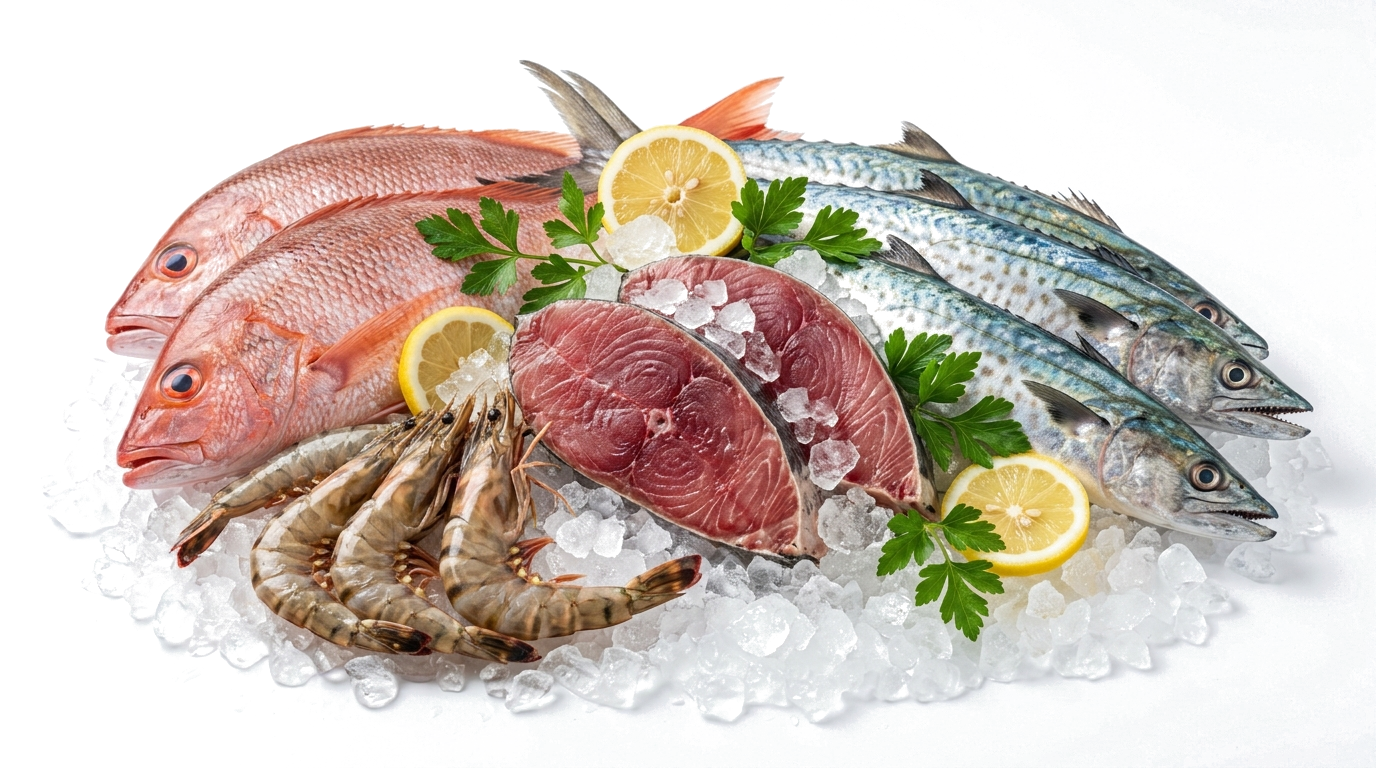
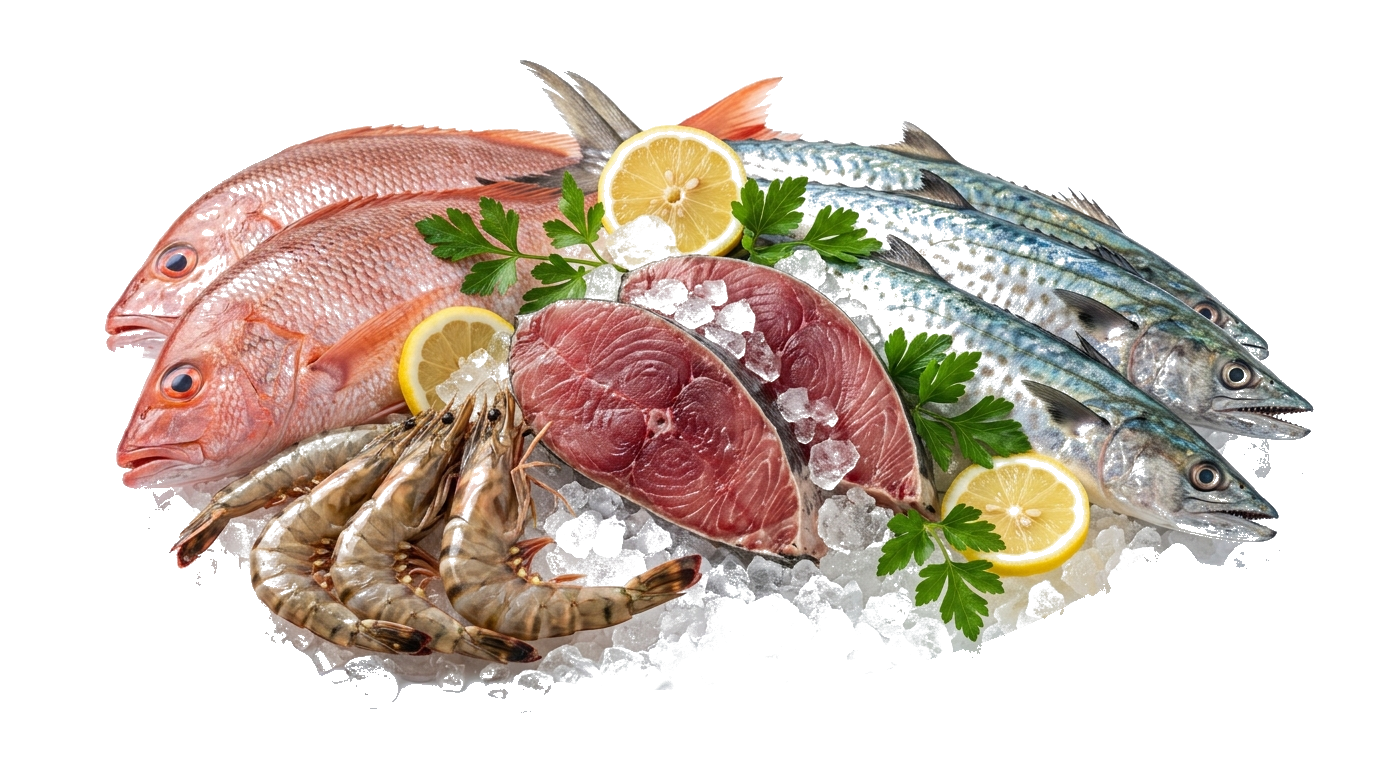
fix(ui): clean fish cutout background & add crisp glass card text container for ultra-readable header text

diff --git a/src/app/(site)/page.tsx b/src/app/(site)/page.tsx
@@ -251,55 +251,57 @@ export default function HomePage() {
             </div>
 
             {/* 5. Hero text content */}
-            <div className="relative z-20 h-full flex flex-col justify-center px-6 sm:px-8 max-w-lg">
-              {/* Small-caps label */}
-              <p className="text-[#1E88E5] text-[10px] sm:text-xs font-bold uppercase tracking-[0.18em] mb-2 sm:mb-3">
-                Premium Quality · Fresh &amp; Natural
-              </p>
+            <div className="relative z-20 h-full flex flex-col justify-center px-4 sm:px-6 py-4">
+              <div className="bg-white/75 backdrop-blur-md rounded-2xl p-4 sm:p-5 border border-white/80 shadow-xs max-w-[460px]">
+                {/* Small-caps label */}
+                <p className="text-[#1E88E5] text-[10px] sm:text-xs font-bold uppercase tracking-[0.18em] mb-2">
+                  Premium Quality · Fresh &amp; Natural
+                </p>
 
-              {/* 2-line headline */}
-              <h1 className="font-heading font-extrabold leading-[1.08] mb-3"
-                style={{ fontSize: "clamp(1.75rem, 2.7vw, 2.85rem)" }}>
-                <span className="block text-[#0D2542]">Island Fresh Seafood,</span>
-                <span className="block text-[#2E7D32]">Delivered to Your Door.</span>
-              </h1>
+                {/* 2-line headline */}
+                <h1 className="font-heading font-extrabold leading-[1.08] mb-2.5"
+                  style={{ fontSize: "clamp(1.65rem, 2.5vw, 2.7rem)" }}>
+                  <span className="block text-[#0D2542]">Island Fresh Seafood,</span>
+                  <span className="block text-[#2E7D32]">Delivered to Your Door.</span>
+                </h1>
 
-              <p className="text-[#0D2542]/80 text-xs sm:text-sm leading-snug mb-5 max-w-xs font-medium">
-                From Sri Lankan waters to your kitchen —<br />
-                we bring you the freshest catch, every day.
-              </p>
+                <p className="text-[#0D2542]/85 text-xs sm:text-sm leading-snug mb-4 font-medium">
+                  From Sri Lankan waters to your kitchen —<br />
+                  we bring you the freshest catch, every day.
+                </p>
 
-              {/* CTA */}
-              <Link
-                href="/shop"
-                className="inline-flex items-center gap-2 bg-[#0D2542] hover:bg-[#1E88E5] text-white font-bold text-sm px-6 py-2.5 rounded-full shadow-md hover:shadow-lg transition-all duration-200 w-fit"
-              >
-                Shop Now <ArrowRight className="h-4 w-4" />
-              </Link>
+                {/* CTA */}
+                <Link
+                  href="/shop"
+                  className="inline-flex items-center gap-2 bg-[#0D2542] hover:bg-[#1E88E5] text-white font-bold text-sm px-5 py-2 rounded-full shadow-md hover:shadow-lg transition-all duration-200 w-fit"
+                >
+                  Shop Now <ArrowRight className="h-4 w-4" />
+                </Link>
 
-              {/* Delivery cut-off row */}
-              <div className="mt-4 flex items-center flex-wrap gap-3">
-                <span className="flex items-center gap-1.5 text-[11px] font-semibold text-[#0D2542]/85">
-                  <Sun className="h-3.5 w-3.5 text-[#2E7D32] shrink-0" />
-                  Before 12 PM → Same-day delivery
-                </span>
-                <span className="flex items-center gap-1.5 text-[11px] font-semibold text-[#0D2542]/85">
-                  <Moon className="h-3.5 w-3.5 text-[#1E88E5] shrink-0" />
-                  After 12 PM → Next-day delivery
-                </span>
-              </div>
-
-              {/* Three neutral badges */}
-              <div className="mt-3 flex flex-wrap gap-2 text-[11px]">
-                {[
-                  { icon: Truck, text: "Chilled delivery" },
-                  { icon: ShieldCheck, text: "Secure checkout" },
-                  { icon: Leaf, text: "Prices updated daily" },
-                ].map(({ icon: Icon, text }) => (
-                  <span key={text} className="flex items-center gap-1.5 bg-white/80 backdrop-blur-sm border border-white/60 px-2.5 py-1 rounded-full font-semibold text-[#0D2542]/85 shadow-2xs">
-                    <Icon className="h-3 w-3 text-[#1E88E5]" /> {text}
+                {/* Delivery cut-off row */}
+                <div className="mt-3.5 flex items-center flex-wrap gap-2.5 pt-2.5 border-t border-[#0D2542]/10">
+                  <span className="flex items-center gap-1 text-[10.5px] font-bold text-[#0D2542]">
+                    <Sun className="h-3.5 w-3.5 text-[#2E7D32] shrink-0" />
+                    Before 12 PM → Same-day delivery
                   </span>
-                ))}
+                  <span className="flex items-center gap-1 text-[10.5px] font-bold text-[#0D2542]">
+                    <Moon className="h-3.5 w-3.5 text-[#1E88E5] shrink-0" />
+                    After 12 PM → Next-day delivery
+                  </span>
+                </div>
+
+                {/* Three neutral badges */}
+                <div className="mt-2.5 flex flex-wrap gap-1.5 text-[10.5px]">
+                  {[
+                    { icon: Truck, text: "Chilled delivery" },
+                    { icon: ShieldCheck, text: "Secure checkout" },
+                    { icon: Leaf, text: "Prices updated daily" },
+                  ].map(({ icon: Icon, text }) => (
+                    <span key={text} className="flex items-center gap-1 bg-white/90 border border-white px-2 py-0.5 rounded-full font-bold text-[#0D2542]/90 shadow-2xs">
+                      <Icon className="h-3 w-3 text-[#1E88E5]" /> {text}
+                    </span>
+                  ))}
+                </div>
               </div>
             </div>
           </section>
